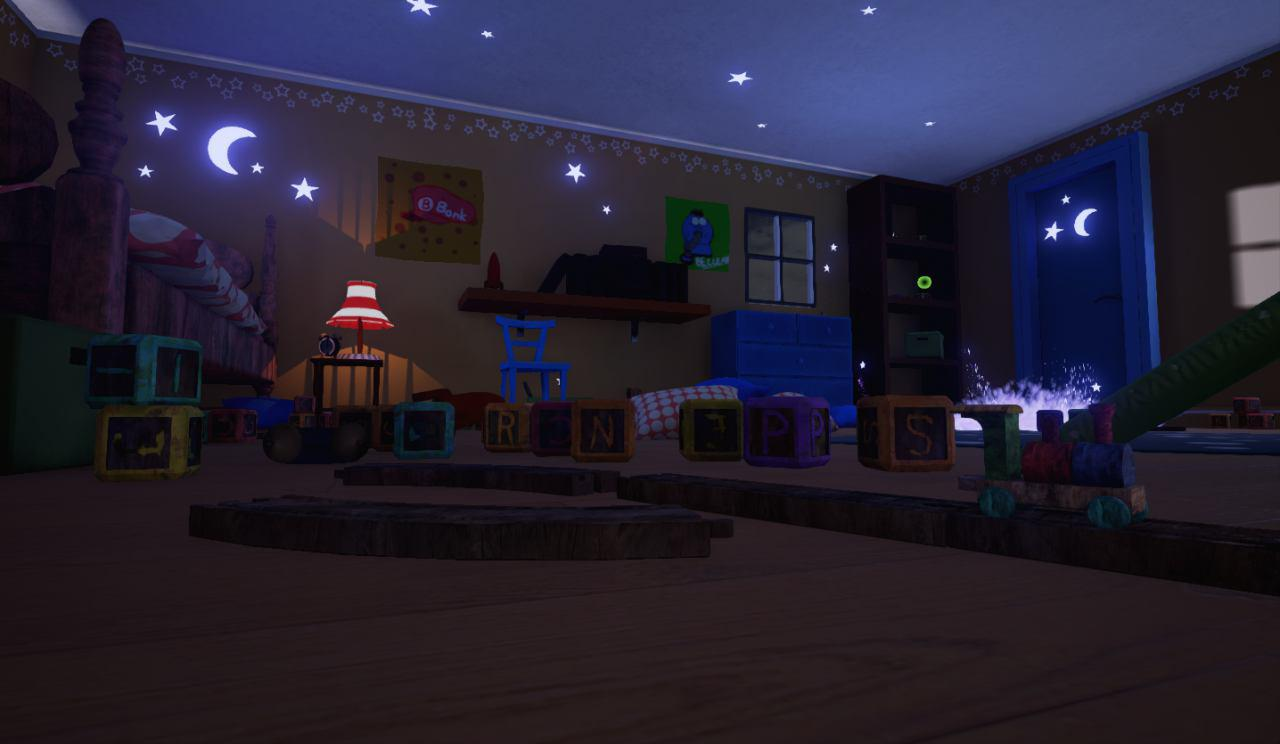
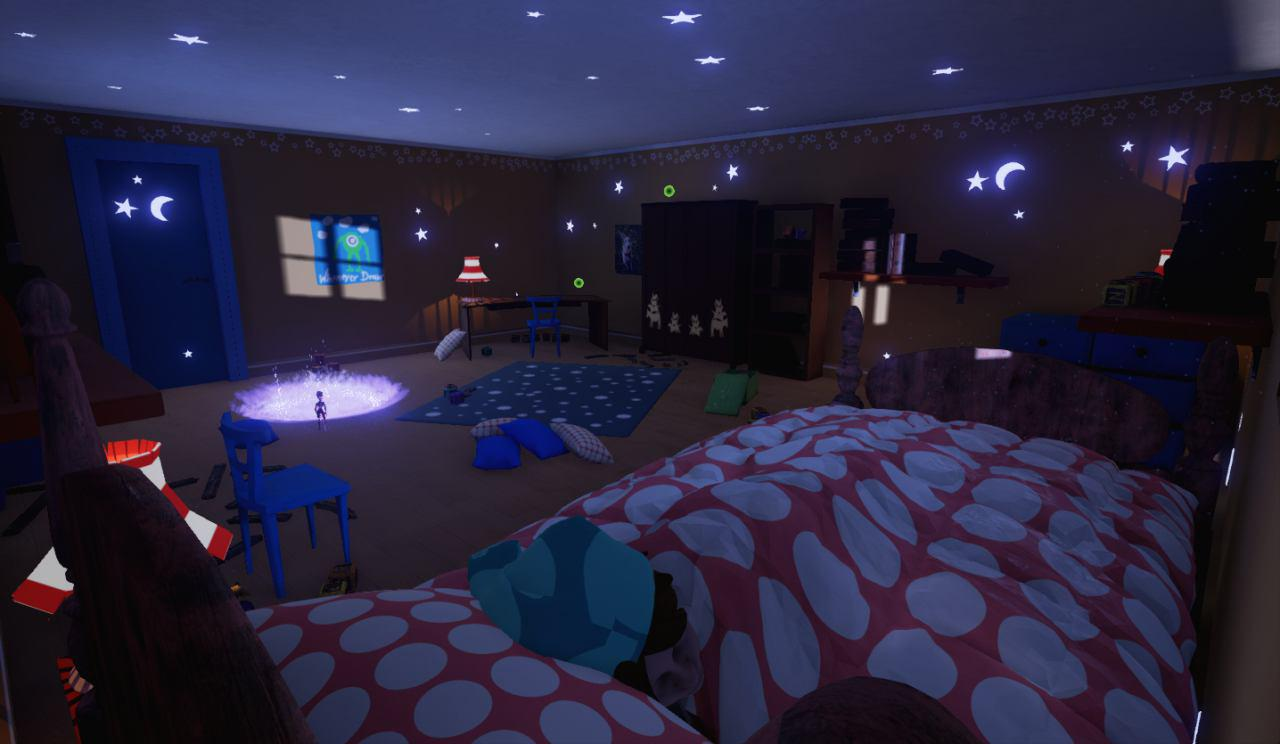
Added spencer screenshots & Improved jumbotron offset

diff --git a/nocturnalhunt.html b/nocturnalhunt.html
@@ -39,8 +39,6 @@
 	<ol class="carousel-indicators">
 		<li data-target="#project-carousel" data-slide-to="0" class="active"></li>
 		<li data-target="#project-carousel" data-slide-to="1"></li>
-		<li data-target="#project-carousel" data-slide-to="2"></li>
-		<li data-target="#project-carousel" data-slide-to="3"></li>
 	</ol>
 
 	<!-- Wrapper for slides -->
@@ -54,18 +52,6 @@
 		<div class="item">
 			<div class="jumbotron  screenshot02">
 
-			</div>
-		</div>
-
-		<div class="item">
-			<div class="jumbotron  screenshot03">
-
-			</div>
-		</div>
-
-		<div class="item">
-			<div class="jumbotron  screenshot04">
-	
 			</div>
 		</div>
 	</div>

diff --git a/css/spencer.css b/css/spencer.css
@@ -1,6 +1,6 @@
 .carousel .screenshot01
 {
-	background-image: url("../img/spencer/SpencerScreenshot01.jpg");
+	background-image: url("../img/spencer/SpencerScreenshot01.png");
 }
 
 .carousel .screenshot02
@@ -10,10 +10,10 @@
 
 .carousel .screenshot03
 {
-	background-image: url("../img/spencer/SpencerScreenshot01.jpg");
+	background-image: url("../img/spencer/SpencerScreenshot03.jpg");
 }
 
 .carousel .screenshot04
 {
-	background-image: url("../img/spencer/SpencerScreenshot02.jpg");
+	background-image: url("../img/spencer/SpencerScreenshot04.jpg");
 }

diff --git a/css/nocturnalhunt.css b/css/nocturnalhunt.css
@@ -7,13 +7,3 @@
 {
 	background-image: url("../img/nocturnalhunt/nocturnalhunt-screenshot02.png");
 }
-
-.carousel .screenshot03
-{
-	background-image: url("../img/nocturnalhunt/nocturnalhunt-screenshot01.png");
-}
-
-.carousel .screenshot04
-{
-	background-image: url("../img/nocturnalhunt/nocturnalhunt-screenshot02.png");
-}

diff --git a/css/main.css b/css/main.css
@@ -104,7 +104,7 @@ body
 	background-repeat: no-repeat;
 	background-size: cover;
 	background-attachment: fixed;
-	background-position: center -50px;
+	background-position: center -200px;
 }
 
 .carousel-indicators

diff --git a/css/overview.css b/css/overview.css
@@ -31,7 +31,7 @@ body
 
 .spencer .jumbotron
 {
-	background-image: url("../img/spencer/SpencerScreenshot01.jpg");
+	background-image: url("../img/spencer/SpencerScreenshot01.png");
 }
 
 .panzerx .jumbotron
